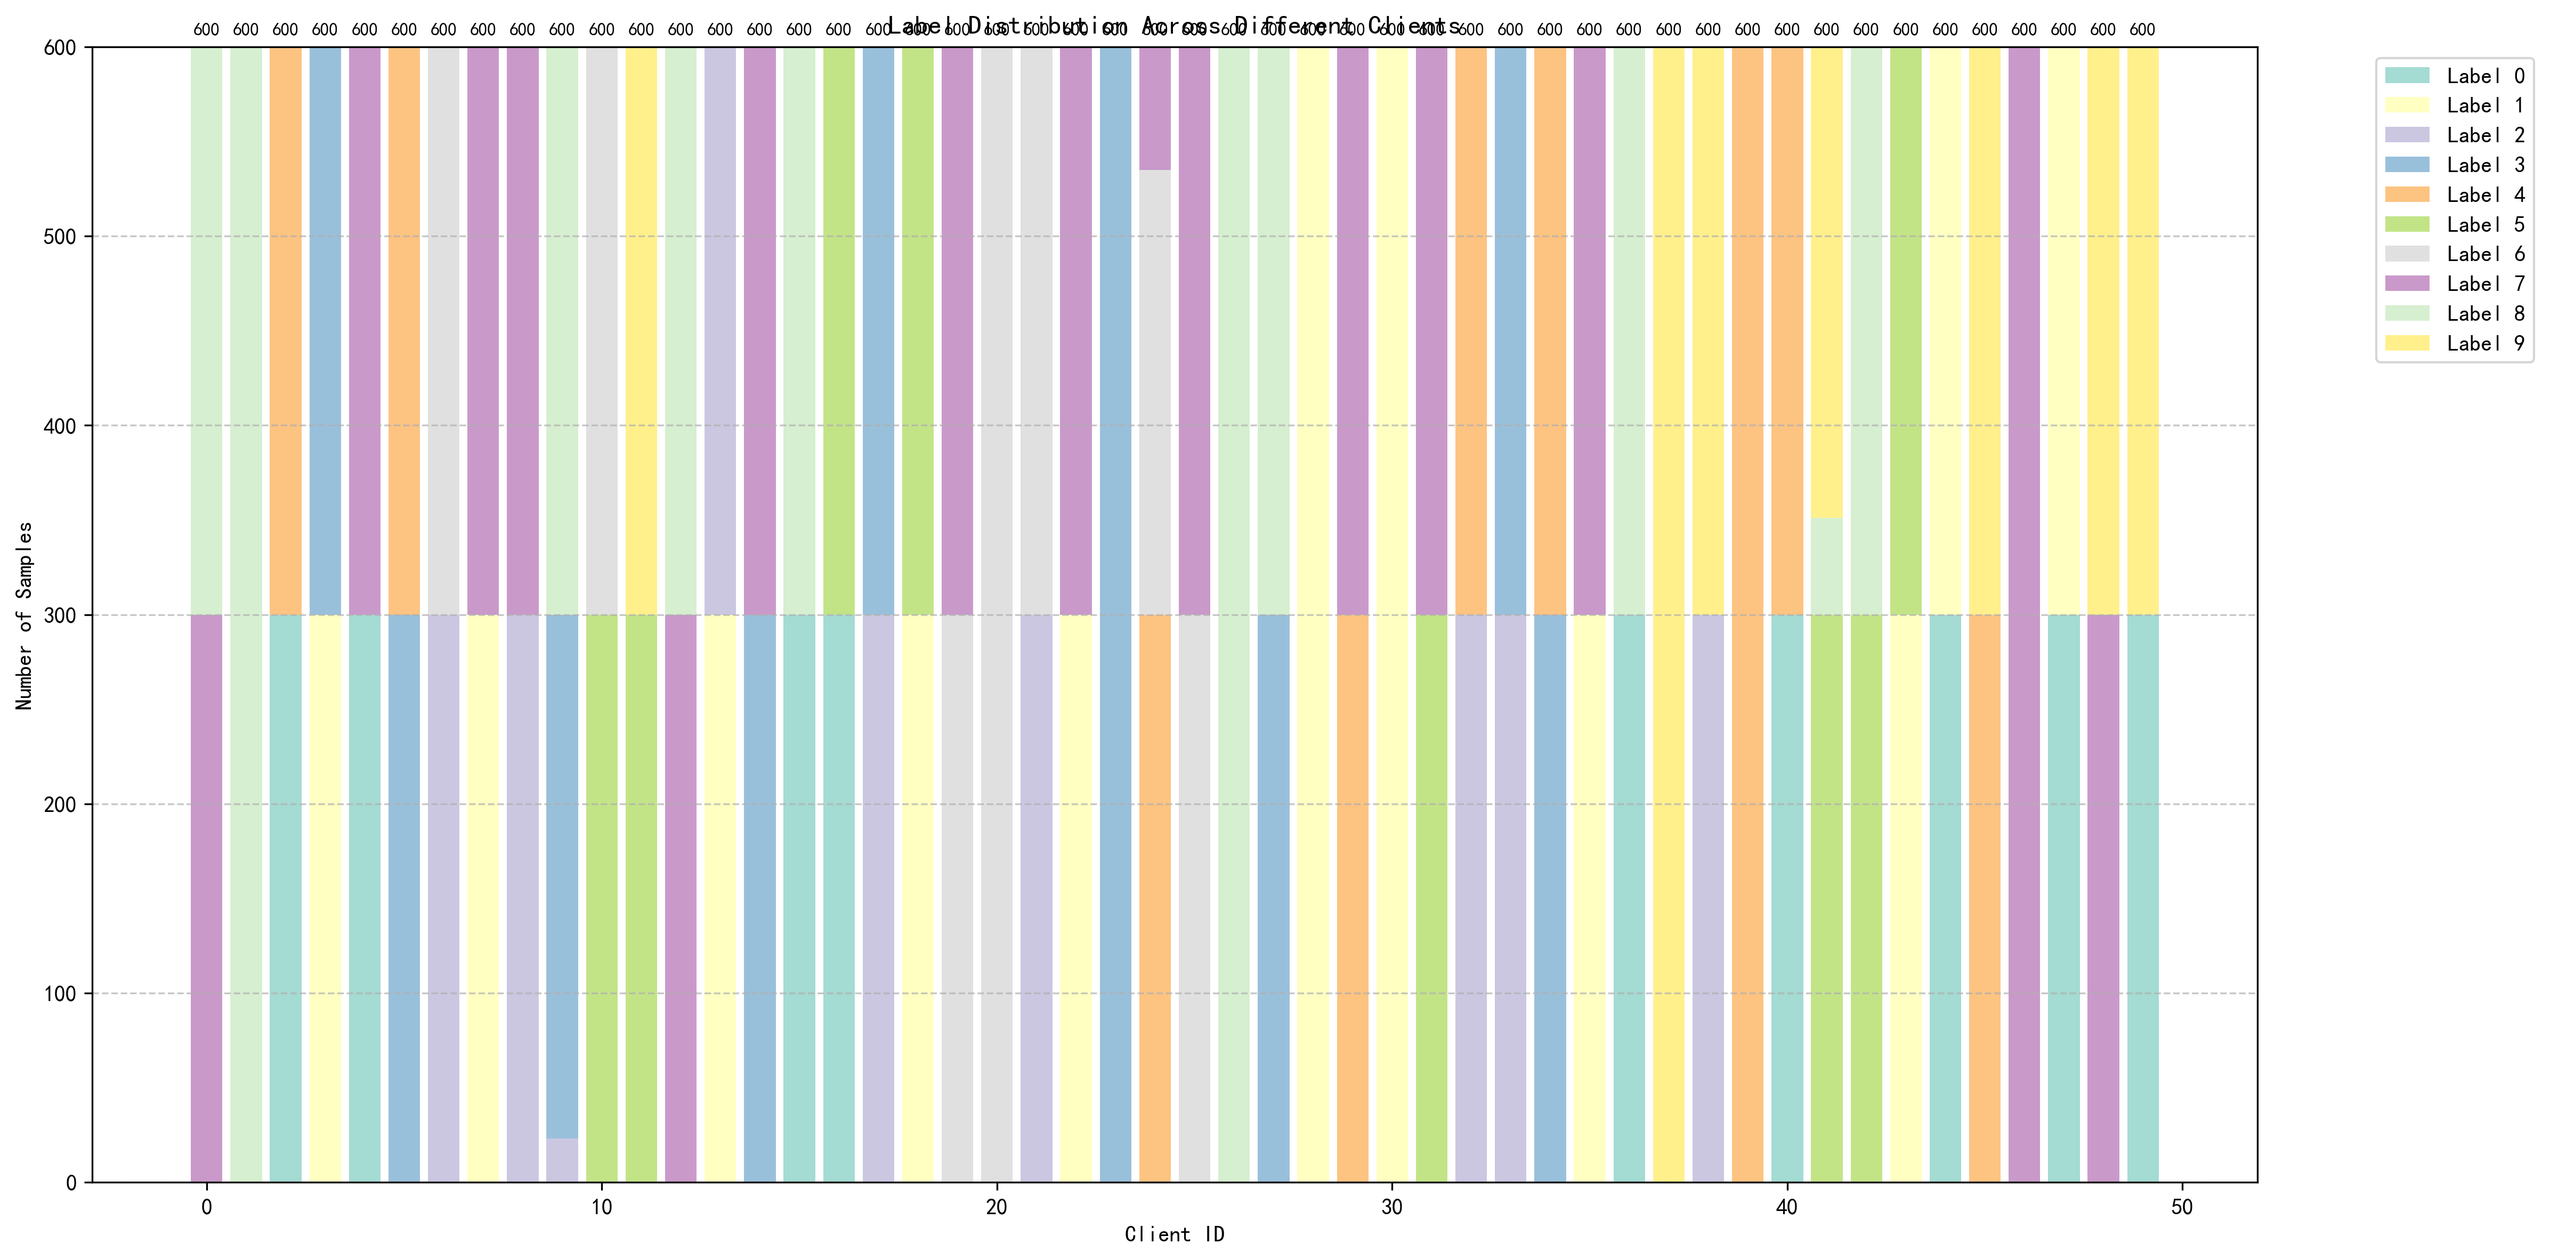
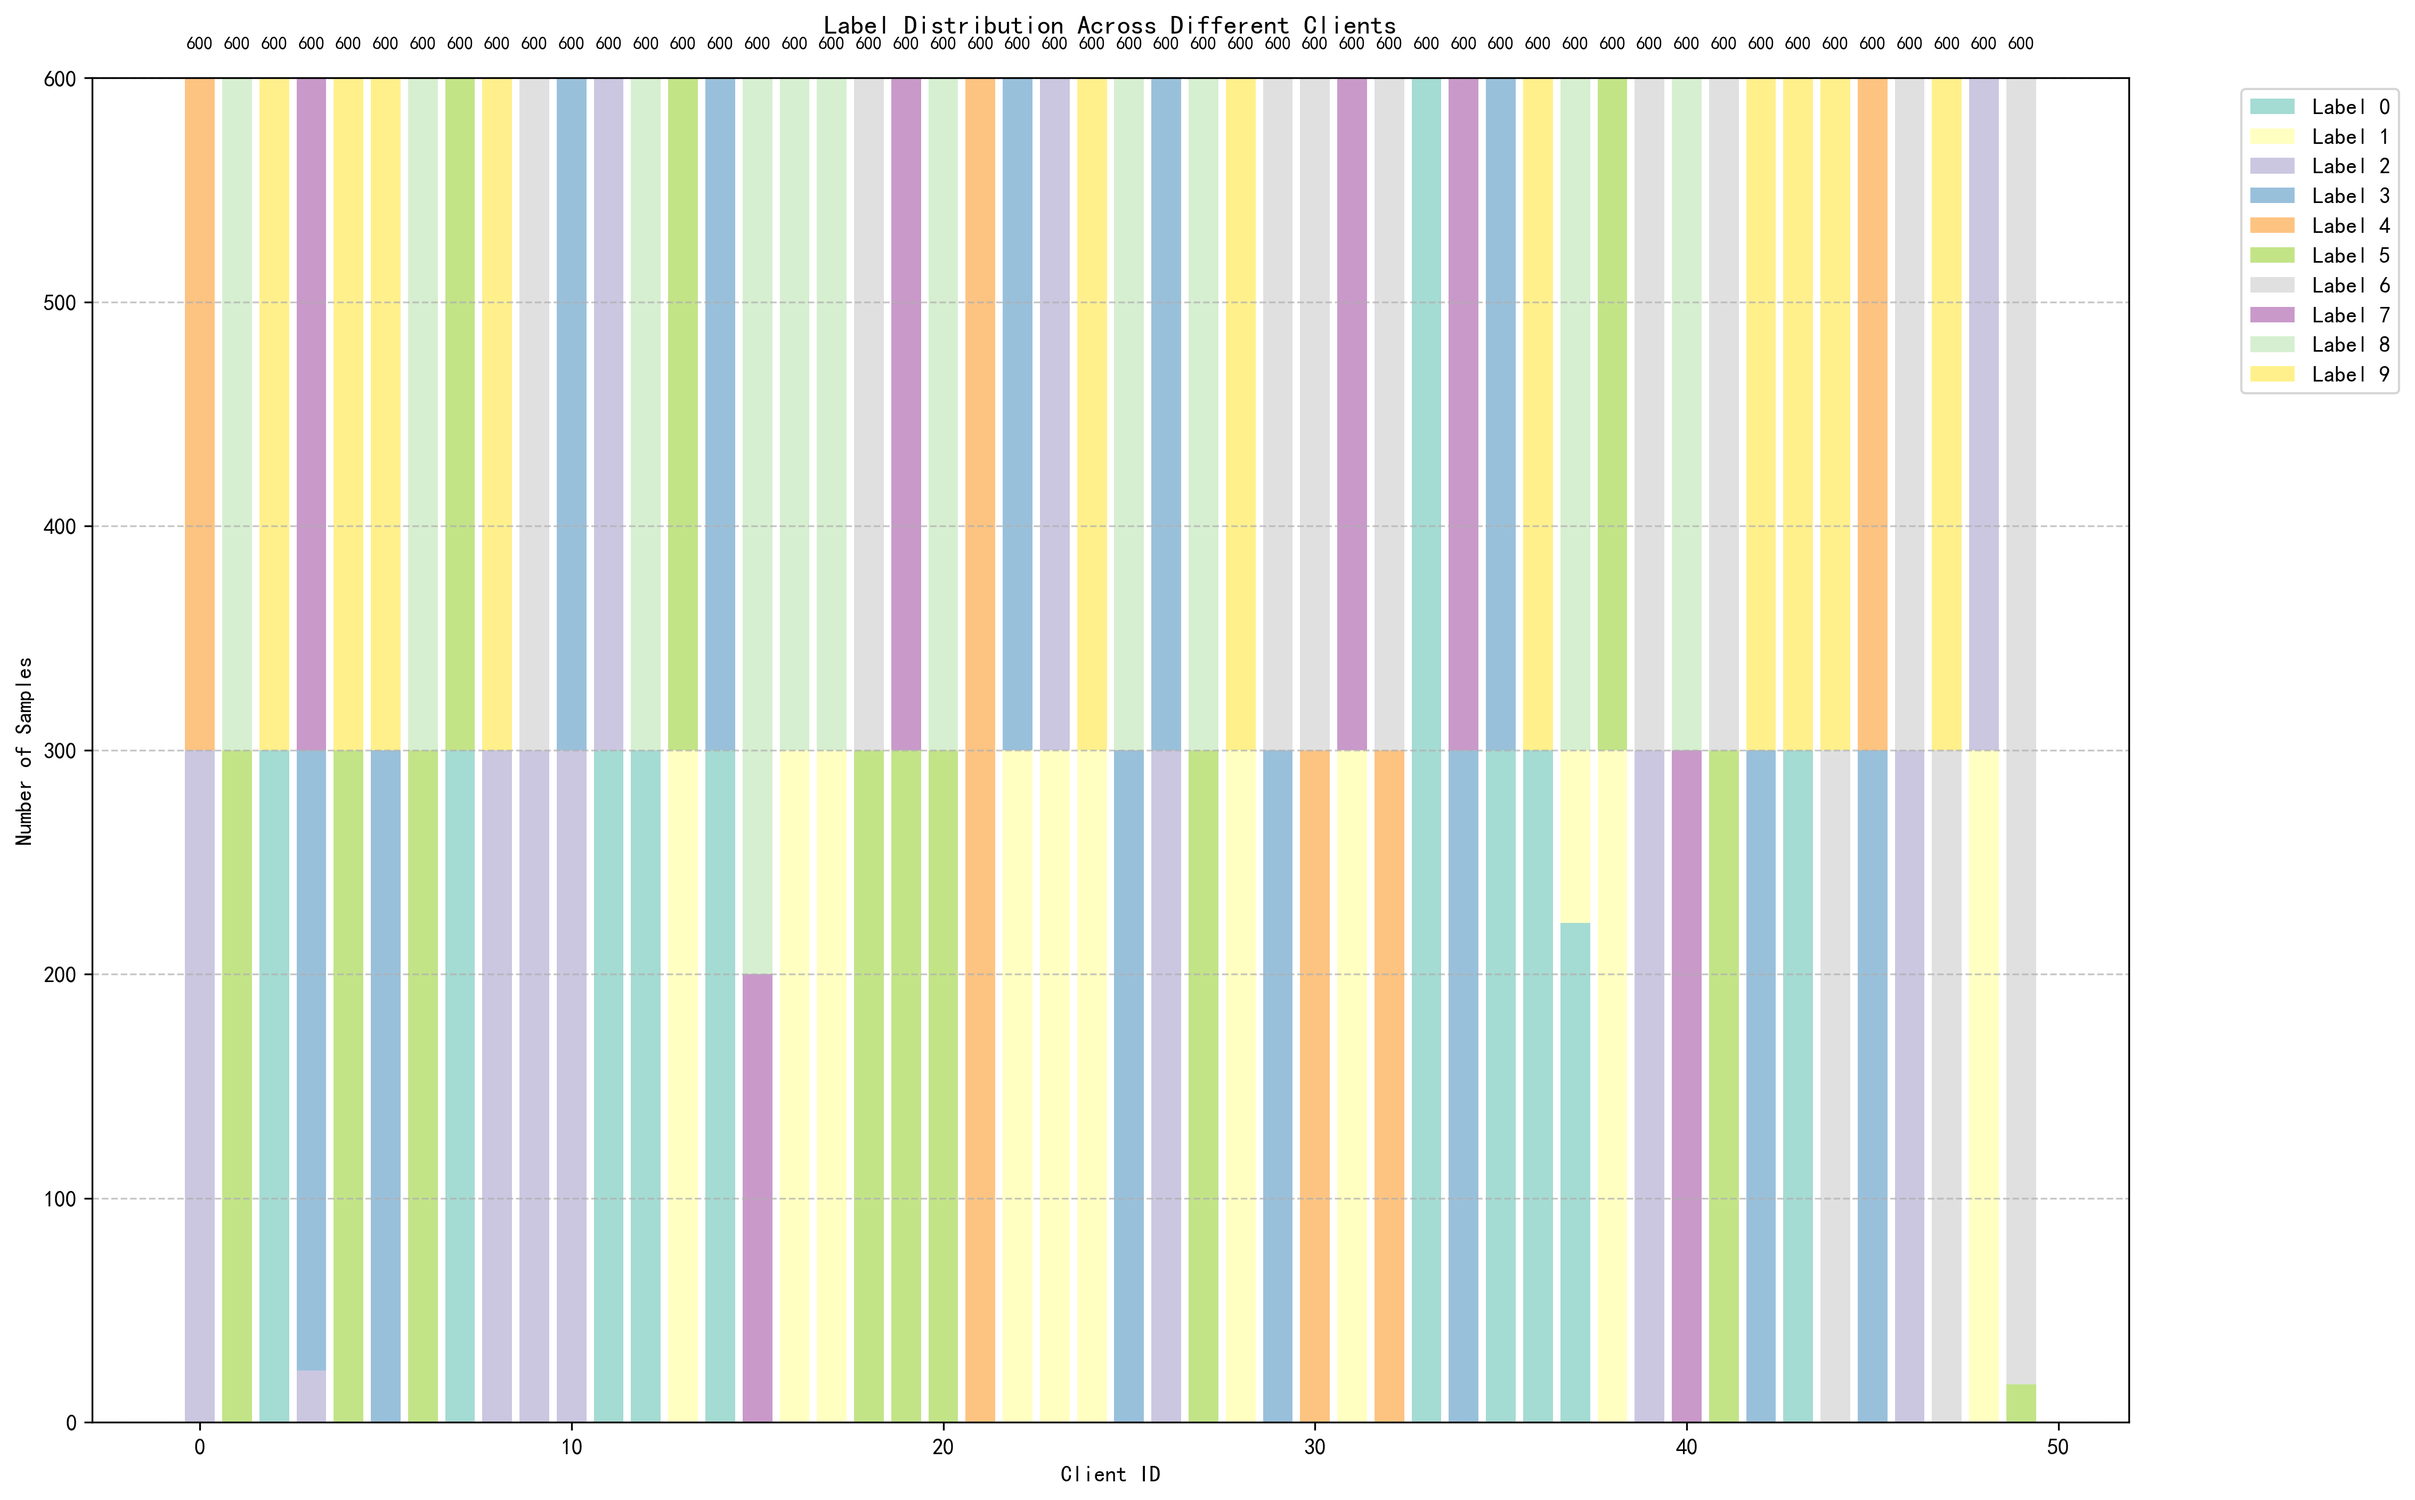
合并get_B_cluster

diff --git a/main_fed.py b/main_fed.py
@@ -19,15 +19,13 @@ from models.Update import LocalUpdate
 from models.Nets import MLP, CNNMnist, CNNCifar
 from models.Fed import FedAvg, FedAvg_layered
 from models.test import test_img
-# 在文件顶部的导入部分添加
-from models.visual import visualize_client_label_distribution
+
 from models.cluster import (
     train_initial_models,
     aggregate_es_models, spectral_clustering_es,
     visualize_es_clustering_result,
     calculate_es_label_distributions
 )
-
 
 
 def get_data(args):
@@ -94,6 +92,36 @@ def get_A(num_users, num_ESs):
         B[i, random_index] = 1
 
     return B'''
+
+
+def get_B_cluster(args, w_locals, A, dict_users, net_glob, client_label_distributions, num_EHs=None):
+    """
+    使用谱聚类生成 ES-EH 关联矩阵 B，并可视化聚类结果
+    """
+    print("开始谱聚类生成B矩阵...")
+
+    # 1. 聚合ES模型
+    es_models = aggregate_es_models(w_locals, A, dict_users, net_glob)
+
+    # 2. 使用谱聚类获取ES-EH关联矩阵B
+    B, cluster_labels = spectral_clustering_es(
+        es_models,
+        num_EHs=num_EHs,  # 可以指定或设置为None自动确定
+        sigma=args.sigma,  # 从参数中获取
+        epsilon=args.epsilon  # 从参数中获取
+    )
+
+    # 3. 计算每个ES的标签分布
+    es_label_distributions = calculate_es_label_distributions(A, client_label_distributions)
+
+    # 4. 可视化ES聚类结果
+    visualize_es_clustering_result(
+        es_label_distributions=es_label_distributions,
+        cluster_labels=cluster_labels,
+        save_path='./save/es_clustering_result.png'
+    )
+
+    return B  # 只返回B矩阵
 
 # ===== 根据 A、B 构造 C1 和 C2 =====
 def build_hierarchy(A, B):
@@ -180,33 +208,9 @@ if __name__ == '__main__':
         args, dataset_train, dict_users, net_glob, num_users
     )
 
-    # 新增：可视化客户端数据分布
-    visualize_client_label_distribution(
-        client_label_distributions=client_label_distributions,
-        dict_users=dict_users,
-        dataset_train=dataset_train,
-        save_path='./save/client_label_distribution.png'
-    )
-
-    # 2. 聚合ES模型 - 这里添加了 net_glob 参数
-    es_models = aggregate_es_models(w_locals, A, dict_users, net_glob)
-
-    # 3. 使用谱聚类获取ES-EH关联矩阵B
-    B, cluster_labels = spectral_clustering_es(
-        es_models,
-        num_EHs=num_EHs,  # 可以指定或设置为None自动确定
-        sigma=args.sigma,  # 从参数中获取
-        epsilon=args.epsilon  # 从参数中获取
-    )
-
-    # 4. 计算每个ES的标签分布
-    es_label_distributions = calculate_es_label_distributions(A, client_label_distributions)
-
-    # 5. 可视化ES聚类结果
-    visualize_es_clustering_result(
-        es_label_distributions=es_label_distributions,
-        cluster_labels=cluster_labels,
-        save_path='./save/es_clustering_result.png'
+    # 2. 使用谱聚类生成B矩阵
+    B = get_B_cluster(
+        args, w_locals, A, dict_users, net_glob, client_label_distributions, num_EHs
     )
 
     C1, C2 = build_hierarchy(A, B)
